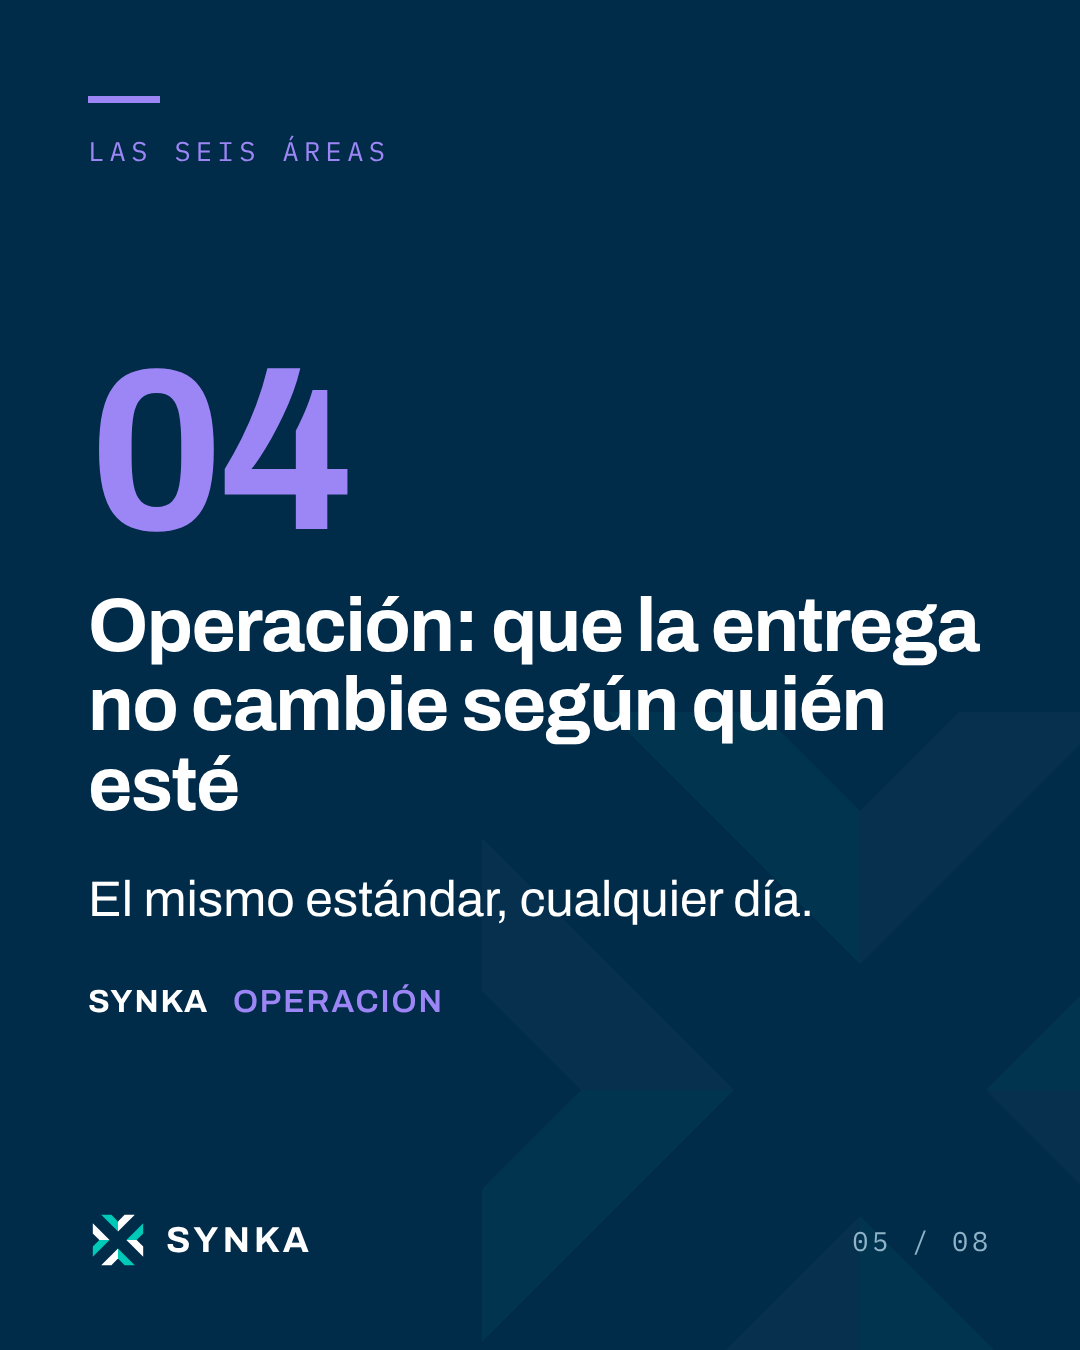
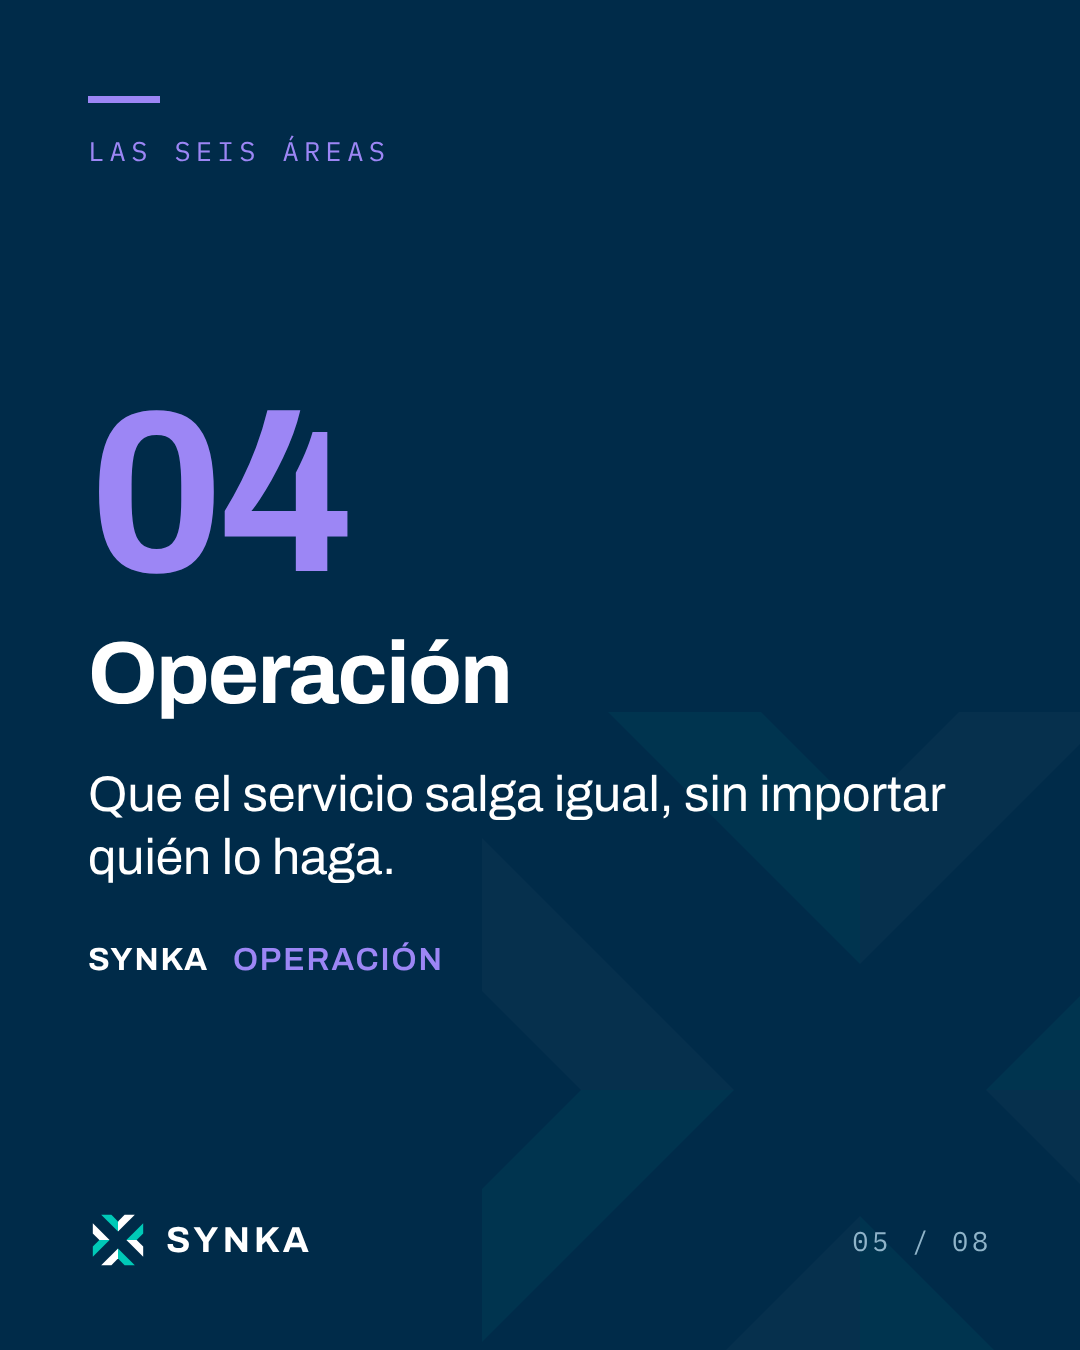
Carrusel de las seis áreas: título y láminas más claros
Claude-Session: https://claude.ai/code/session_019QwHcBpDA2yMa4xsYSpK9Y

Changed region(s): [[0.0611, 0.2489, 0.9167, 0.7467]]

diff --git a/tools/gen-carruseles.py b/tools/gen-carruseles.py
@@ -78,16 +78,16 @@ CARRUSELES = {
     # ---- Carruseles de SYNKA del plan de contenido (ver marketing/banco-de-publicaciones.md) ----
     'seis-areas': {
         'etiqueta': 'Las seis áreas',
-        'portada': ('Las seis áreas de una empresa que no depende de su dueño', 'Y cómo saber cuál pesa más', TEAL),
+        'portada': ('Las 6 áreas que hacen que tu empresa funcione sin ti', 'Y cuál de ellas te está frenando', TEAL),
         'items': [
-            ('Estructura: quién decide qué', 'Decisiones con dueño, reglas y límites claros.', 'ESTRUCTURA', EST),
-            ('Comercial: vender sin que todo pase por ti', 'Un proceso de venta que el equipo ejecuta y tú ves.', 'COMERCIAL', COM),
-            ('Procesos: cómo se hace cada cosa', 'Escrito, repetible y sin depender de una sola persona.', 'PROCESOS', PRO),
-            ('Operación: que la entrega no cambie según quién esté', 'El mismo estándar, cualquier día.', 'OPERACIÓN', OPE),
-            ('Personas: cada quien sabe qué se espera', 'Responsabilidades claras y una forma simple de evaluar.', 'PERSONAS', PER),
-            ('Control: números que ves sin pedirlos', 'Indicadores a la vista, con responsable.', 'CONTROL', CON),
+            ('Estructura', 'Quién decide qué, y hasta dónde.', 'ESTRUCTURA', EST),
+            ('Comercial', 'Vender sin que todo pase por ti.', 'COMERCIAL', COM),
+            ('Procesos', 'Cómo se hace cada cosa, escrito y repetible.', 'PROCESOS', PRO),
+            ('Operación', 'Que el servicio salga igual, sin importar quién lo haga.', 'OPERACIÓN', OPE),
+            ('Personas', 'Cada quien sabe qué se espera de él y cómo va.', 'PERSONAS', PER),
+            ('Control', 'Números que ves sin tener que pedirlos.', 'CONTROL', CON),
         ],
-        'cierre': ('¿En cuál se concentra tu dependencia?',
+        'cierre': ('¿Cuál te está frenando?',
                    'Mídelo en 5 minutos y empieza por la más débil.',
                    'Hacer el Radar SYNKA', '21 preguntas · 5 minutos · gratis'),
     },

diff --git a/marketing/calendario/precalentamiento-dos-voces.md b/marketing/calendario/precalentamiento-dos-voces.md
@@ -24,7 +24,7 @@ Regla de oro: el mismo día no publican la misma idea. Uriel cuenta, SYNKA orden
 
 - lun 26 oct 08:30 · LinkedIn (Uriel) · Texto · Por qué hablo de esto
 - mar 27 oct 08:30 · LinkedIn (Uriel) · Texto · El organigrama que importa
-- mié 28 oct 12:00 · Instagram SYNKA · Carrusel nuevo · Las seis áreas, una frase cada una
+- mié 28 oct 12:00 · Instagram SYNKA · Carrusel nuevo · Las 6 áreas que hacen que tu empresa funcione sin ti
 - jue 29 oct 08:30 · LinkedIn (Uriel) · Texto · Tres preguntas de la primera reunión
 - vie 30 oct 19:00 · Instagram Uriel · Reel (guion A) · Las tres preguntas
 - mar 3 nov 08:30 · LinkedIn (Uriel) · Texto · Cuánto cuesta que todo pase por ti
@@ -91,27 +91,27 @@ https://synka.mx/blog/senales-empresa-depende-del-dueno?utm_source=linkedin&utm_
 
 ## mié 28 oct · 12:00 · Instagram SYNKA · Carrusel nuevo
 
-**Las seis áreas, una frase cada una**
+**Las 6 áreas que hacen que tu empresa funcione sin ti**
 
 **Archivos:** `marketing/visuales/seis-areas/01.png` … `08.png` (8 imágenes, en orden). El texto de las láminas sale de `tools/gen-carruseles.py`.
 
 **Contenido de las láminas:**
 
 ```
-1. Una empresa que funciona sin su dueño en el centro se sostiene en seis áreas.
-2. Estructura: quién decide qué.
-3. Comercial: cómo se vende sin que todo pase por ti.
+1. Las 6 áreas que hacen que tu empresa funcione sin ti. Y cuál de ellas te está frenando.
+2. Estructura: quién decide qué, y hasta dónde.
+3. Comercial: vender sin que todo pase por ti.
 4. Procesos: cómo se hace cada cosa, escrito y repetible.
-5. Operación: que la entrega no dependa de quién esté ese día.
+5. Operación: que el servicio salga igual, sin importar quién lo haga.
 6. Personas: cada quien sabe qué se espera de él y cómo va.
 7. Control: números que ves sin tener que pedirlos.
-8. ¿En cuál se concentra tu dependencia? Radar SYNKA: 21 preguntas, 5 minutos, gratis. Enlace en la bio.
+8. ¿Cuál te está frenando? Radar SYNKA: 21 preguntas, 5 minutos, gratis. Enlace en la bio.
 ```
 
 **Texto:**
 
 ```
-Las seis áreas que sostienen una empresa que no depende de su dueño.
+Las 6 áreas que hacen que tu empresa funcione sin ti.
 
 Guarda este carrusel y marca cuál es hoy la más débil en la tuya.
 
